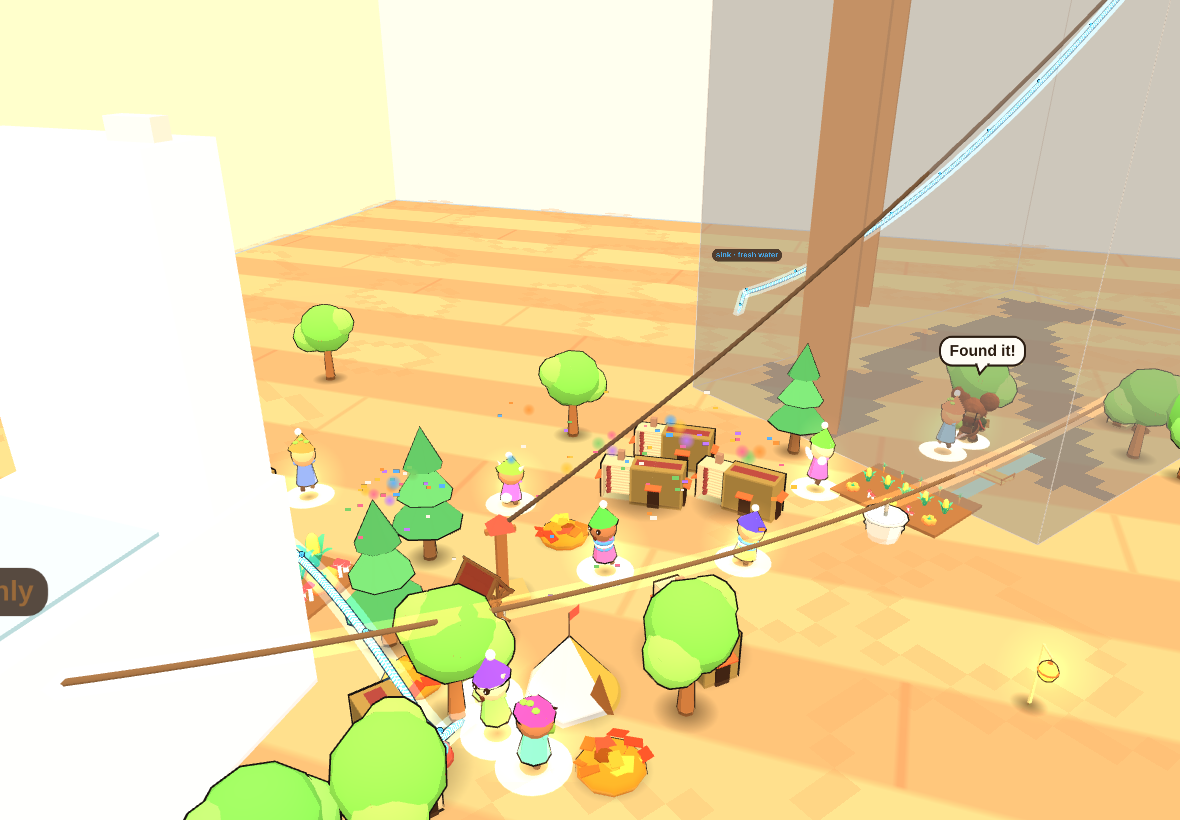
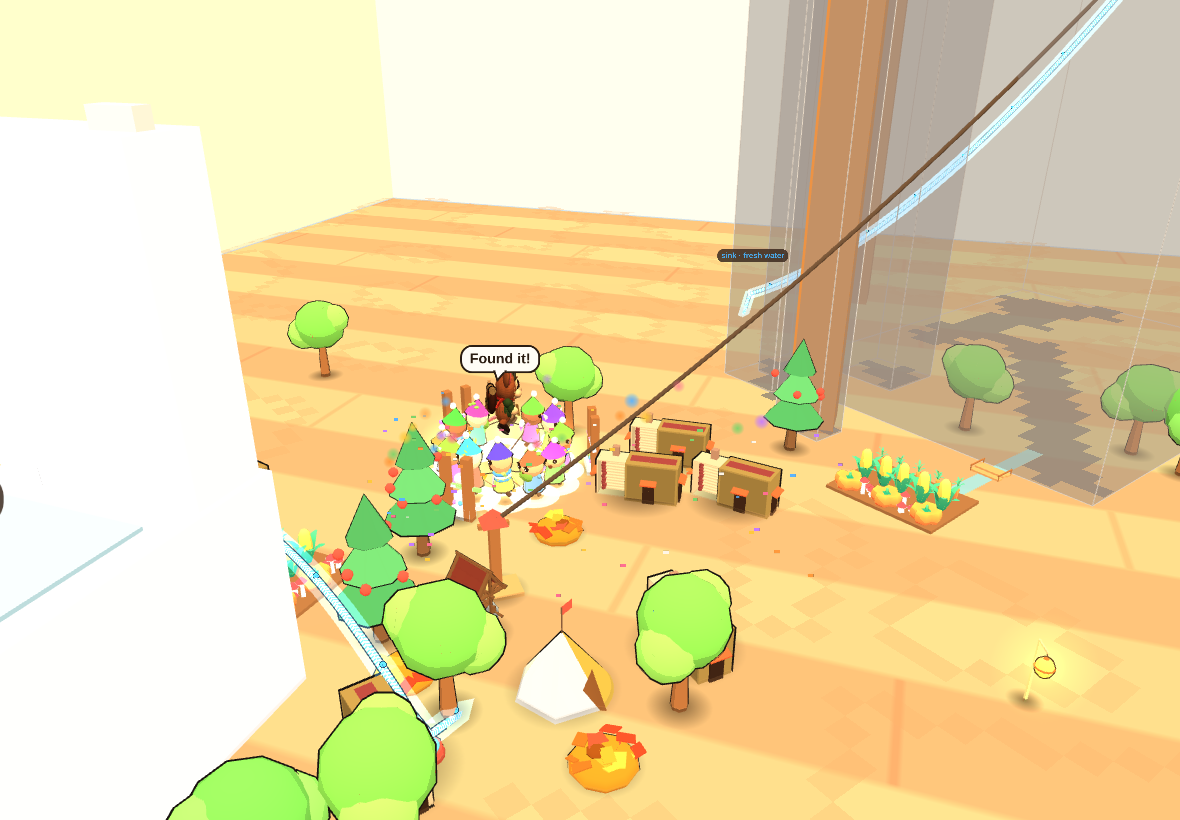
WIP build 18: marks scale, shots

diff --git a/games/base-camp/tests/water-test.js b/games/base-camp/tests/water-test.js
@@ -17,6 +17,11 @@ async function boot(p, url, store) {
   for (let i = 0; i < 240; i++) { await sleep(500); if (await ev(() => __g.P.mode === 'orbit')) break; } await sleep(1000);
 }
 const calls = (p) => p.evaluate(() => { const r = __g.renderer, i = r.info; i.reset(); r.render(__g.scene, __g.camera); return { calls: i.render.calls, tris: i.render.triangles }; });
+/* paired: the same frame drawn with and without everything build 18 added (loo huts, the toy sink and toilet, the network), so the creatures' sprites and the camera cannot blur the comparison */
+const paired = (p) => p.evaluate(() => {
+  const G = __g, add = []; for (const S of G.G.settlements) for (const t of S.things) if (t.kind === 'loo' && t.mesh) add.push(t.mesh); for (const q of G.PROPS) if (q.id === 'sink' || q.id === 'toilet') add.push(q.mesh); for (const r of G.G.net.pipes.concat(G.G.net.lines)) add.push(r.group); for (const id in G.G.net.marks) add.push(G.G.net.marks[id]); if (G.G.net.rope) add.push(G.G.net.rope);
+  const was = add.map((o) => o.visible), r = G.renderer, i = r.info; i.reset(); r.render(G.scene, G.camera); const all = i.render.calls; for (const o of add) o.visible = false; i.reset(); r.render(G.scene, G.camera); const base = i.render.calls; add.forEach((o, k) => { o.visible = was[k]; }); return { all, base };
+});
 const view = (p, o) => p.evaluate((o) => { const hs = (S) => S.things.filter((t) => (t.kind === 'hut' || t.kind === 'farm') && t.built), S = __g.G.settlements.slice().sort((a, b) => hs(b).length - hs(a).length)[0], L = hs(S); let cx = 0, cz = 0; for (const t of L) { cx += t.x; cz += t.z; } cx /= Math.max(1, L.length); cz /= Math.max(1, L.length); const w = S.group.localToWorld(new __g.THREE.Vector3(cx, 0, cz)); __g.P.mode = 'orbit'; __g.P.yaw = o.yaw; __g.P.pitch = o.pitch; __g.focusOn(w.x + o.dx, w.y + 0.03, w.z + o.dz, o.d); }, o);
 (async () => {
   const { srv, url } = await serve(); const { b, p, errs } = await launch(); const ev = (f, a) => p.evaluate(f, a);
@@ -35,12 +40,12 @@ const view = (p, o) => p.evaluate((o) => { const hs = (S) => S.things.filter((t)
   const S0 = await ev(() => { const S = __g.mainSettlement(); S.t = Math.max(S.t, 30); S.stock.wood = 40; __g.G.net.found = {}; __g.G.net.exp = null; __g.G.net.xt = 0; __g.G.speed = 0; return { cols: S.cols.length, scouts: S.cols.filter((c) => c.scout).length, loo: !!__g.looOf(S) }; });
   ok('the colony is up with one scout; each camp has a loo hut', S0.cols >= 3 && S0.scouts === 1 && S0.loo, JSON.stringify(S0));
   const refuse = await ev(() => { const S = __g.mainSettlement(), sp = __g.G.spots.find((s) => __g.waterKind(s) === 'sink'); return { err: __g.netCanLay('pipe', S, sp), lay: !!__g.netLay('pipe', S, S.tf.x, S.tf.z, sp), n: __g.G.net.pipes.length, modes: __g.netModes().join() }; });
-  ok('before the scout finds the sink no straw can be laid: "Nobody has found the sink yet"', /Nobody has found the sink/.test(refuse.err) && !refuse.lay && refuse.n === 0 && refuse.modes === 'car', JSON.stringify(refuse));
+  ok('before the scout finds the sink no straw can be laid: "Nobody has found the sink yet"', /Nobody has found the sink/.test(refuse.err) && !refuse.lay && refuse.n === 0 && !refuse.modes.includes('waste'), JSON.stringify(refuse)); /* the cup (tea) is open at once, so straws to it are offered; the toilet is not */
   /* the expedition: walk, climb, look around, cheer; the toast says who found it; step the sim and watch the scout */
   const ex = { phases: [], toast: '', shot: false, name: '', walked: false };
   await ev(() => { window.__rec = { phases: [], toast: '', name: '', walked: false }; window.__expFn = () => { const R = window.__rec, N = __g.G.net, S = __g.mainSettlement(), c = S.cols.find((q) => q.scout), j = c && c.job, ph = j && j.type === 'expedition' ? j.ph : ''; if (ph && R.phases[R.phases.length - 1] !== ph) R.phases.push(ph); if (ph === 'go' && c.moving) R.walked = true; const t = document.getElementById('toast').textContent; if (/found the/.test(t)) { R.toast = t; R.name = c.name; } return false; }; });
   for (let round = 0; round < 8; round++) {
-    const r = await ev(() => { let lookAt = false; __run(240, () => { window.__expFn(); const S = __g.mainSettlement(), c = S.cols.find((q) => q.scout), j = c && c.job; if (j && j.type === 'expedition' && j.ph === 'look' && !window.__shot) { window.__shot = true; lookAt = true; return true; } return Object.keys(__g.G.net.found).length >= 2 && !(j && j.type === 'expedition'); }, 0.25); return { lookAt, found: Object.keys(__g.G.net.found).length }; });
+    const r = await ev(() => { let lookAt = false; __run(240, () => { window.__expFn(); const S = __g.mainSettlement(), c = S.cols.find((q) => q.scout), j = c && c.job; if (j && j.type === 'expedition' && j.ph === 'look' && !window.__shot && __g.waterKind(__g.spotById(j.sp)) === 'sink') { window.__shot = true; lookAt = true; return true; } return Object.keys(__g.G.net.found).length >= 2 && !(j && j.type === 'expedition'); }, 0.25); return { lookAt, found: Object.keys(__g.G.net.found).length }; });
     if (r.lookAt && !ex.shot) { ex.shot = true; await ev(() => { const S = __g.mainSettlement(), c = S.cols.find((q) => q.scout), w = S.group.localToWorld(new __g.THREE.Vector3(c.x, c.yOff || 0, c.z)); __g.P.mode = 'orbit'; __g.P.yaw = 0.5; __g.P.pitch = 0.3; __g.focusOn(w.x, w.y + 0.02, w.z, 0.42); }); await sleep(2200); await p.screenshot({ path: OUT + '57-scout-expedition.png' }); continue; }
     if (r.found >= 2) break;
   }
@@ -63,7 +68,7 @@ const view = (p, o) => p.evaluate((o) => { const hs = (S) => S.things.filter((t)
   const d1 = await ev(() => Array.from(__g.G.net.pipes[0].drops.geometry.attributes.position.array.slice(0, 9)));
   const moved = Math.hypot(d1[0] - d0[0], d1[1] - d0[1], d1[2] - d0[2]);
   ok('droplets visibly travel along the straw', moved > 0.01, moved.toFixed(3) + ' m in 0.7 s');
-  const wet = await ev(() => { const S = __g.mainSettlement(), f = S.things.find((t) => t.kind === 'farm' && t.built), c0 = S.stock.water; S.stock.water = 1; f.tend = 0; __run(40); return { piped: !!f.piped, tend: f.tend, water: S.stock.water, on: S.pipeOn, nearest: __g.pipeFarm(S, __g.G.net.pipes[0]) === f }; });
+  const wet = await ev(() => { const S = __g.mainSettlement(), f = __g.pipeFarm(S, __g.G.net.pipes[0]), c0 = S.stock.water; S.stock.water = 1; f.tend = 0; __run(40); return { piped: !!f.piped, tend: f.tend, water: S.stock.water, on: S.pipeOn, nearest: !!f }; });
   ok('a piped farm never dries out (tend stays up) and the camp water store refills', wet.piped && wet.tend >= 15 && wet.water > 3.5 && wet.on, JSON.stringify(wet));
   const strawMile = await ev(() => __g.FUN.album.some((e) => e.id === 'straw'));
   ok('the first straw is a milestone', strawMile);
@@ -101,7 +106,7 @@ const view = (p, o) => p.evaluate((o) => { const hs = (S) => S.things.filter((t)
   fixRes.t = await ev(() => __run(90, () => { const S = __g.mainSettlement(); if (S.cols.some((c) => c.job && c.job.type === 'fix')) window.__fixSeen = true; return !__g.netAnyBroken(); }, 0.5));
   const fixLog = await ev(() => ({ log: __g.G.net.log.filter((e) => e.k === 'fix').map((e) => e.by), seen: !!window.__fixSeen, kink: __g.G.net.pipes[0].kink }));
   console.log('  kink fixed after ' + fixRes.t + ' s by ' + JSON.stringify(fixLog.log));
-  ok('a creature walks over and unkinks it, within a game minute', fixRes.t >= 0 && fixRes.t <= 70 && fixLog.seen && !fixLog.kink && fixLog.log.length >= 1 && fixLog.log[fixLog.log.length - 1] !== 'self', JSON.stringify([fixRes.t, fixLog]));
+  ok('a creature walks over and unkinks it, within a game minute', fixRes.t >= 0 && fixRes.t <= 70 && fixLog.seen && !fixLog.kink && fixLog.log.length >= 1 && fixLog.log[fixLog.log.length - 1] !== 'self', JSON.stringify([fixRes.t, fixLog]) + (fixLog.seen ? '' : ' ' + JSON.stringify(await ev(() => __g.mainSettlement().cols.map((c) => [c.name, c.job && c.job.type, c.inside, c.cool])))));
   /* a stuck bucket: wait for a bucket on the move, then it sticks, a creature climbs and wiggles it */
   await ev(() => { const S = __g.mainSettlement(); S.waste = 3; });
   const stuckT = await ev(() => __run(120, () => { const l = __g.G.net.lines[0]; return l.st === 'run' && l.s > 0.15; }, 0.5));
@@ -154,11 +159,12 @@ const view = (p, o) => p.evaluate((o) => { const hs = (S) => S.things.filter((t)
   await boot(p2, url, FIX); await ev2(() => { __g.G.speed = 0; });
   await ev2(() => { __g.G.settlements.forEach((S) => { S.cols.forEach((c) => { c.mesh.visible = true; }); }); });
   ok('the fixture colony (build 15 save) loaded in build 18', await ev2(() => __g.G.settlements.reduce((a, S) => a + S.cols.length, 0) >= 6 && __g.G.settlements.length >= 2));
-  await view(p2, { yaw: 0.3, pitch: 0.55, dx: -0.1, dz: 0, d: 3.6 }); await sleep(2200); const r0 = await calls(p2);
+  await view(p2, { yaw: 0.3, pitch: 0.55, dx: -0.1, dz: 0, d: 3.6 }); await sleep(2200); const r0 = await calls(p2), q0 = await paired(p2);
   await p2.setViewportSize({ width: 900, height: 700 }); await p2.addStyleTag({ content: 'body > *:not(canvas) { visibility: hidden !important; }' }); await sleep(500);
-  await view(p2, { yaw: 0.45, pitch: 0.55, dx: 0, dz: 0, d: 0.5 }); await sleep(2200); const c0 = await calls(p2);
+  await view(p2, { yaw: 0.45, pitch: 0.55, dx: 0, dz: 0, d: 0.5 }); await sleep(2200); const c0 = await calls(p2), cq0 = await paired(p2);
   console.log('  draw calls without pipes: whole room ' + r0.calls + ' / close ' + c0.calls + '  (build 17: ' + B17.room + ' / ' + B17.close + ', ratio ' + (r0.calls / B17.room).toFixed(3) + ' / ' + (c0.calls / B17.close).toFixed(3) + ')');
-  ok('draw calls within 10% of build 17 for a colony without pipes (whole room, close orbit)', r0.calls <= B17.room * 1.1 && c0.calls <= B17.close * 1.1, r0.calls + ' vs ' + B17.room + ', ' + c0.calls + ' vs ' + B17.close);
+  console.log('  paired (same frame with and without what build 18 added): whole room ' + q0.all + ' vs ' + q0.base + ' (' + (q0.all / q0.base).toFixed(3) + '), close ' + cq0.all + ' vs ' + cq0.base + ' (' + (cq0.all / cq0.base).toFixed(3) + ')');
+  ok('draw calls within 10% of build 17 for a colony without pipes (loo huts and toys added: whole room, close orbit)', q0.all <= q0.base * 1.1 && cq0.all <= cq0.base * 1.1, JSON.stringify([q0, cq0]));
   await p2.setViewportSize({ width: 1180, height: 820 }); await sleep(500);
   /* two straws (sink to the two biggest camps) and one waste line */
   const net = await ev2(() => {
@@ -175,15 +181,16 @@ const view = (p, o) => p.evaluate((o) => { const hs = (S) => S.things.filter((t)
   });
   await ev2(() => { window.__run = (sec, fn, step) => { step = step || 0.5; let t = 0; for (; t < sec; t += step) { __g.simulate(step, step); if (fn && fn(t)) return t; } return -1; }; __run(30); __g.G.net.pipes.forEach((p) => { p.kink = false; }); });
   ok('two straws and one bucket line laid on the grown colony', net.out.every(Boolean) && net.pipes === 2 && net.lines === 1, JSON.stringify(net));
-  await view(p2, { yaw: 0.3, pitch: 0.55, dx: -0.1, dz: 0, d: 3.6 }); await sleep(2200); const r1 = await calls(p2);
-  await p2.setViewportSize({ width: 900, height: 700 }); await sleep(500); await view(p2, { yaw: 0.45, pitch: 0.55, dx: 0, dz: 0, d: 0.5 }); await sleep(2200); const c1 = await calls(p2);
+  await view(p2, { yaw: 0.3, pitch: 0.55, dx: -0.1, dz: 0, d: 3.6 }); await sleep(2200); const r1 = await calls(p2), q1 = await paired(p2);
+  await p2.setViewportSize({ width: 900, height: 700 }); await sleep(500); await view(p2, { yaw: 0.45, pitch: 0.55, dx: 0, dz: 0, d: 0.5 }); await sleep(2200); const c1 = await calls(p2), cq1 = await paired(p2);
   console.log('  draw calls with two straws and one bucket line: whole room ' + r1.calls + ' / close ' + c1.calls + '  (ratio to build 17 ' + (r1.calls / B17.room).toFixed(3) + ' / ' + (c1.calls / B17.close).toFixed(3) + ')');
-  ok('draw calls within 20% of build 17 with two straws and one bucket line', r1.calls <= B17.room * 1.2 && c1.calls <= B17.close * 1.2, r1.calls + ' vs ' + B17.room + ', ' + c1.calls + ' vs ' + B17.close);
+  console.log('  paired with the network: whole room ' + q1.all + ' vs ' + q1.base + ' (' + (q1.all / q1.base).toFixed(3) + '), close ' + cq1.all + ' vs ' + cq1.base + ' (' + (cq1.all / cq1.base).toFixed(3) + ')');
+  ok('draw calls within 20% of build 17 with two straws and one bucket line', q1.all <= q1.base * 1.2 && cq1.all <= cq1.base * 1.2, JSON.stringify([q1, cq1]));
   await p2.setViewportSize({ width: 1180, height: 820 }); await sleep(500);
   const aud = await ev2(() => { const G = __g, grad = G.BCP.grad, inks = new Set(Object.values(G.BCP.inks)); const o = { toon: 0, ink: 0, exc: 0, bad: [] }; const vis = (m) => { for (let q = m; q; q = q.parent) if (!q.visible) return false; return true; }; for (const run of G.G.net.pipes.concat(G.G.net.lines)) run.group.traverse((m) => { if (!m.isMesh || !vis(m)) return; const mt = m.material; if (mt.isMeshToonMaterial && mt.gradientMap === grad) o.toon++; else if (inks.has(mt)) o.ink++; else if (mt.isMeshBasicMaterial && mt.transparent) o.exc++; else o.bad.push(mt.type + ' ' + m.geometry.type); }); return o; });
   ok('every visible mesh of the network is toon, ink or a soft overlay', aud.bad.length === 0 && aud.toon > 3 && aud.ink > 3, JSON.stringify(aud));
   /* screenshot 55: straws from the sink to the farms, droplets visible */
-  await ev2(() => { const g = __g, G = g.G; g.setTool('look'); const p0 = G.net.pipes[0], A = g.ptAt(p0, 0.0, new g.THREE.Vector3()), T = g.ptAt(p0, 1.0, new g.THREE.Vector3()); const S = G.settlements.find((q) => q.id === p0.sid); g.P.mode = 'orbit'; g.P.yaw = 0.35; g.P.pitch = 0.42; g.focusOn((A.x + T.x) / 2, (A.y + T.y) / 2 - 0.05, (A.z + T.z) / 2, Math.max(0.9, A.distanceTo(T) * 1.15)); });
+  await ev2(() => { const g = __g, G = g.G; g.setTool('look'); for (const S of G.settlements) for (const c of S.cols) if (c.job && c.job.type === 'expedition') { c.job = null; c.yOff = 0; c.moving = false; } G.net.exp = null; if (G.net.rope) G.net.rope.visible = false; const p0 = G.net.pipes[0], A = g.ptAt(p0, 0.0, new g.THREE.Vector3()), T = g.ptAt(p0, 0.95, new g.THREE.Vector3()), N = p0.N; g.P.mode = 'orbit'; g.P.yaw = 0.2; g.P.pitch = 0.34; g.focusOn((N.x * 2 + T.x + A.x * 0.4) / 3.4, (N.y + T.y) / 2 + 0.06, (N.z * 2 + T.z + A.z * 0.4) / 3.4, 0.78); });
   await sleep(2600); await p2.screenshot({ path: OUT + '55-waterworks.png' });
   ok('0 page errors (grown colony)', L.errs.length === 0, JSON.stringify(L.errs.slice(0, 3)));
   await L.b.close();

diff --git a/games/base-camp/index.html b/games/base-camp/index.html
@@ -3621,7 +3621,7 @@ function netVisual(dt, time) {
   for (const S of G.settlements) { const loo = looOf(S); if (loo && loo.mesh && loo.mesh.userData.heap) { const hp = loo.mesh.userData.heap, c = S.compost || 0; hp.visible = c > 0.03; if (hp.visible) hp.scale.setScalar(0.55 + 0.7 * Math.min(1, c)); } }
   for (const sp of G.spots) { const k = waterKind(sp), open = k && srcOpen(sp); let m = N.marks[sp.id];
     if (open && !m) { m = N.marks[sp.id] = labelSprite(WSRC[k].name + ' · ' + WSRC[k].tag, WSRC[k].col); m.scale.set(0.15, 0.028, 1); world.add(m); }
-    if (m) { m.visible = !!open && look; m.position.set(sp.x, sp.y + 0.075 + 0.004 * Math.sin(time * 2 + sp.id), sp.z); } }
+    if (m) { m.visible = !!open && look; m.position.set(sp.x, sp.y + 0.075 + 0.004 * Math.sin(time * 2 + sp.id), sp.z); const eye = AR.on ? tmpV.setFromMatrixPosition(AR.viewM) : camera.position, k = clamp(eye.distanceTo(m.position) / 1.2, 0.3, 3); m.scale.set(0.15 * k, 0.028 * k, 1); } }
   for (const id in N.marks) if (!spotById(+id)) { const m = N.marks[id]; world.remove(m); delete N.marks[id]; }
 }
 function netHide() { const N = G.net; for (const r of N.pipes.concat(N.lines)) r.group.visible = false; for (const id in N.marks) N.marks[id].visible = false; if (N.rope) N.rope.visible = false; }
